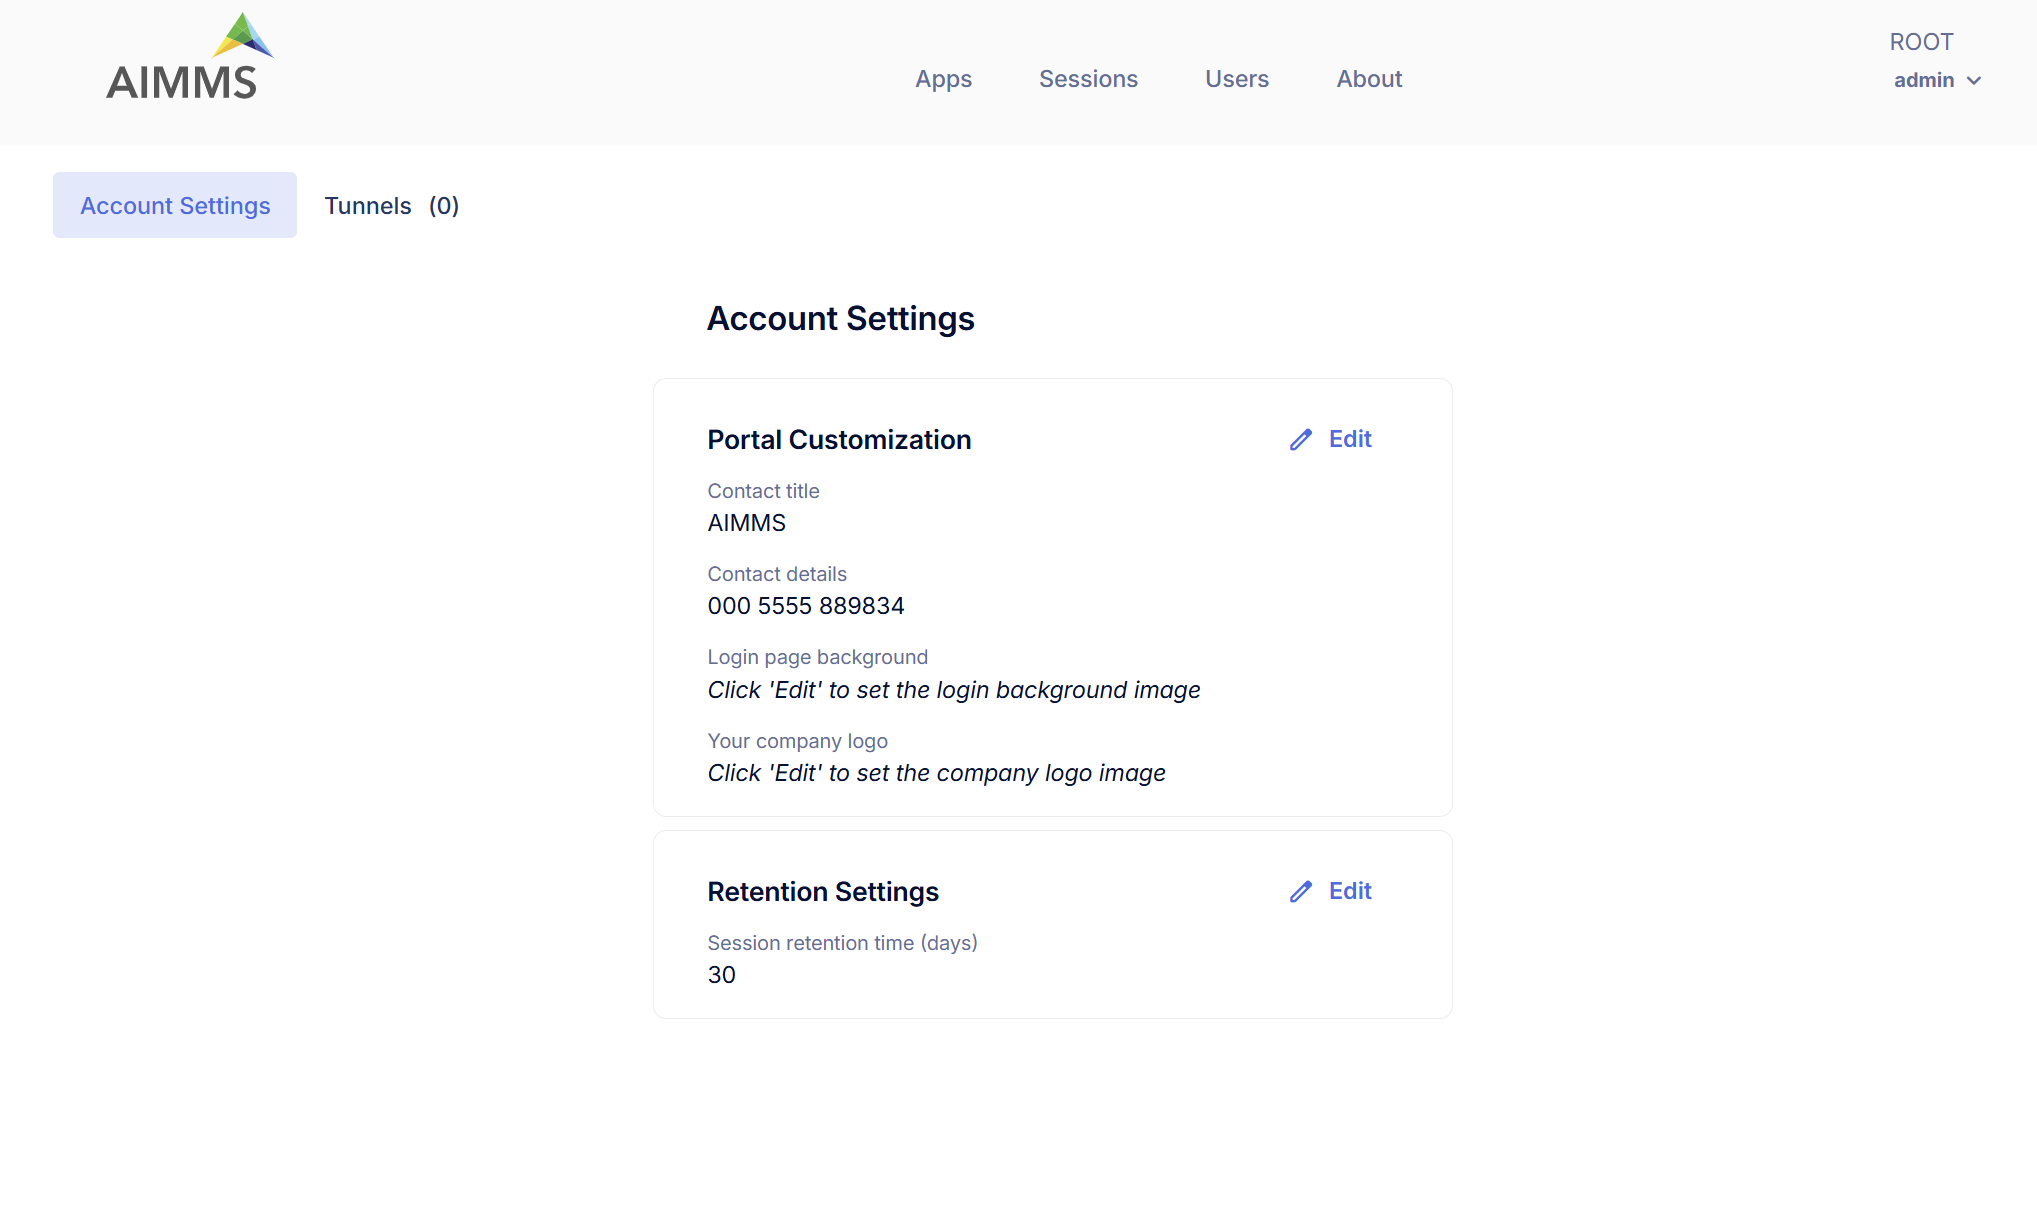
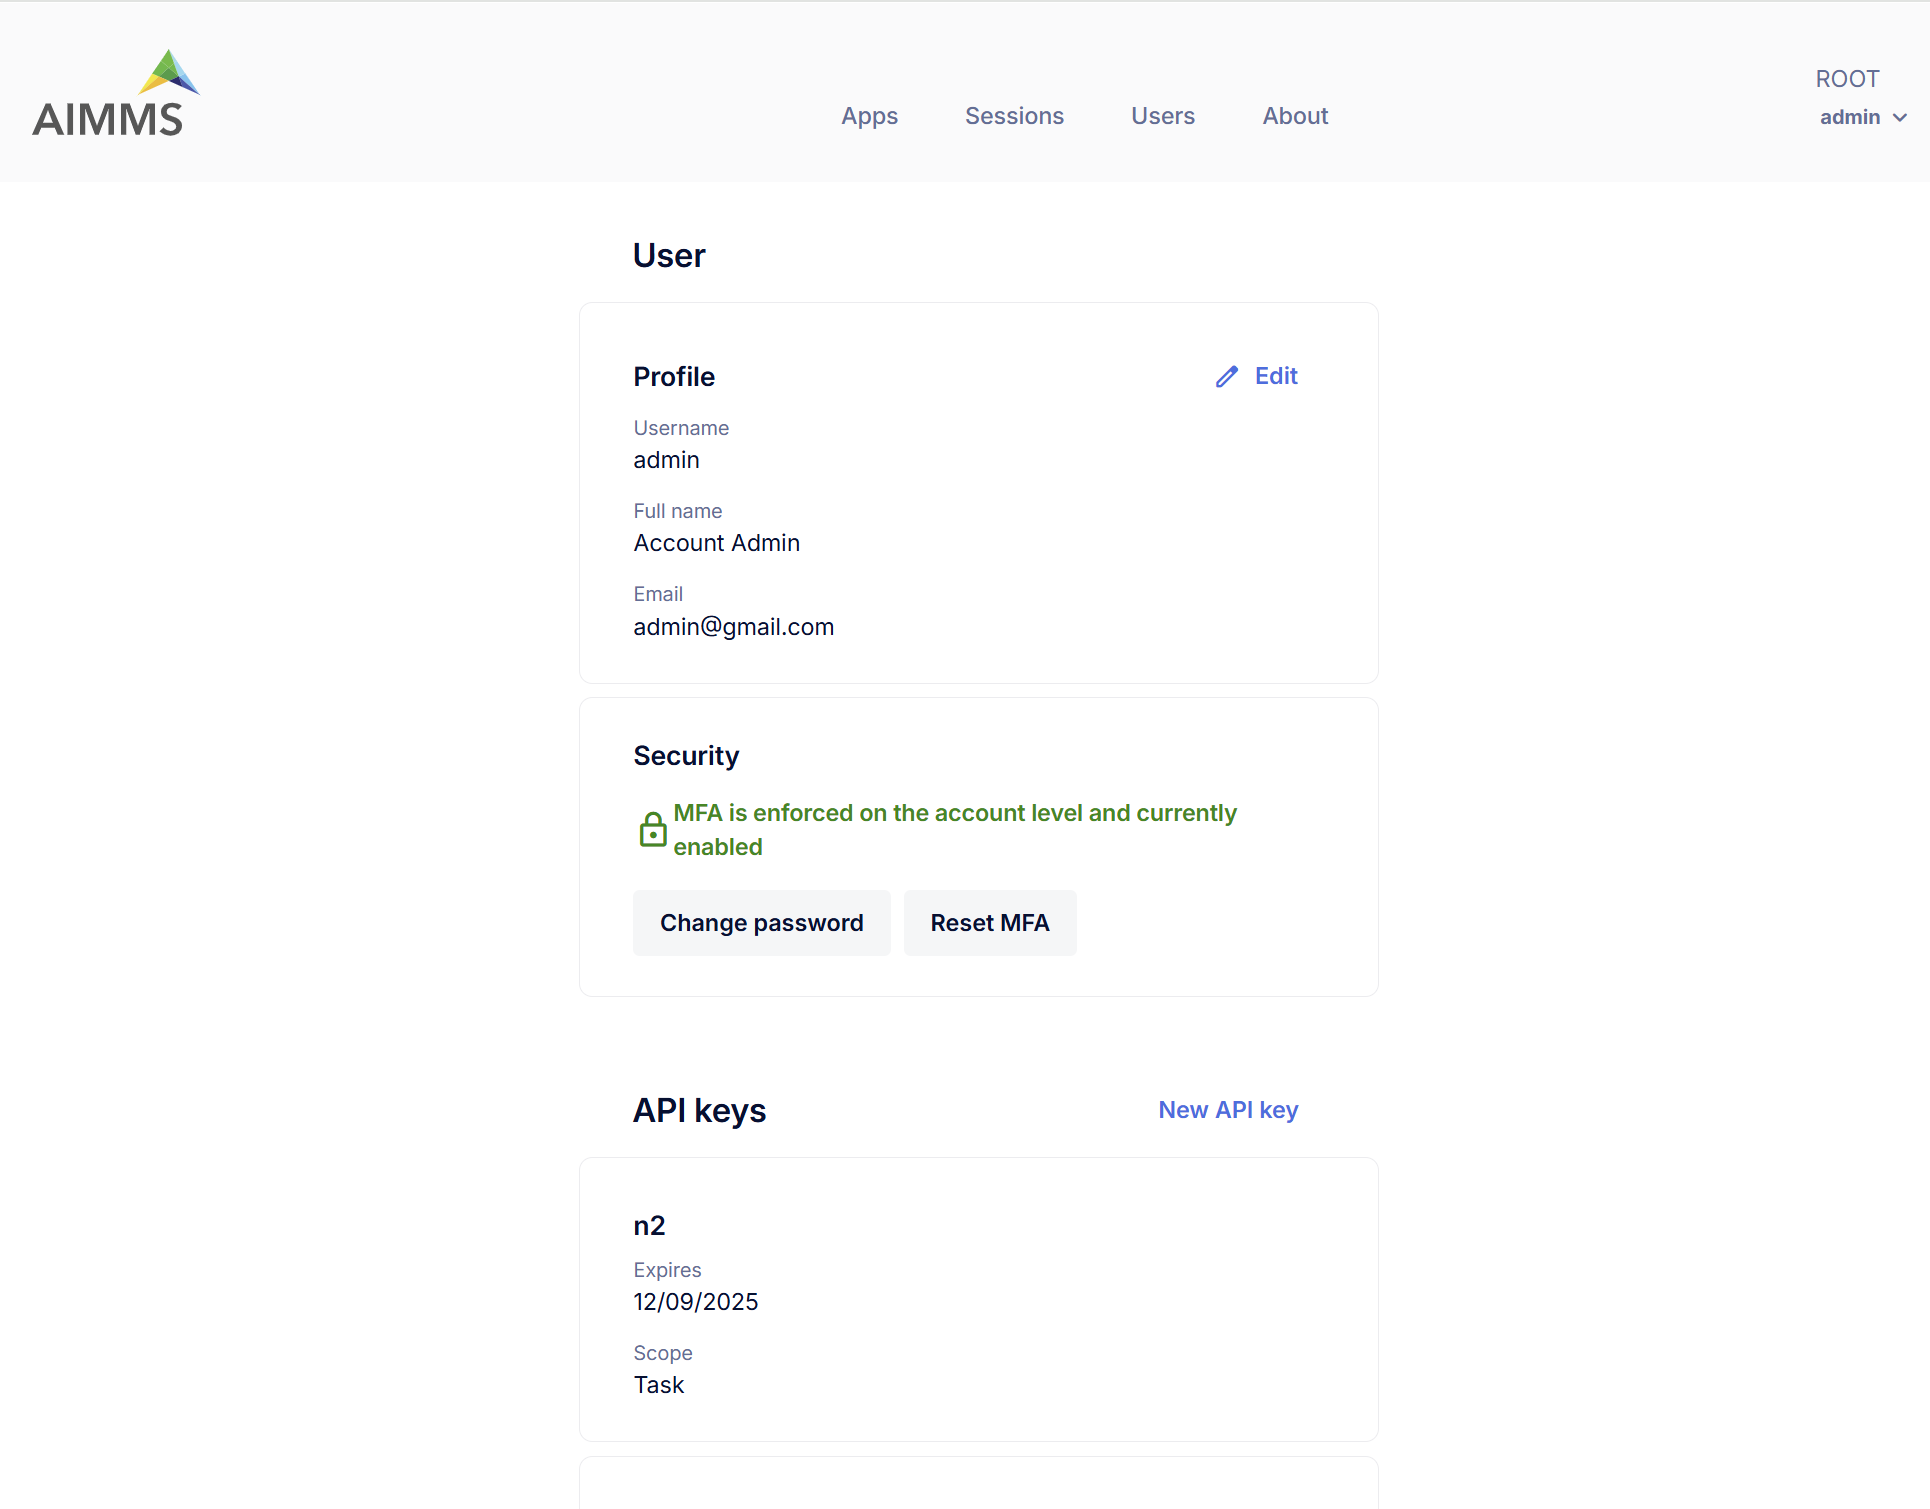
updated images and MFA information as per the enforce MFA feature

diff --git a/cloud/newportal-configuration.rst b/cloud/newportal-configuration.rst
@@ -6,7 +6,7 @@ Configuration lets administrators manage Account level settings and configure tu
 Account Settings
 ----------------
 
-The Account Settings page allows administrators to manage portal appearance and retention settings for sessions.
+The Account Settings page allows administrators to manage portal appearance, retention settings for sessions and MFA enforcement.
 
 .. image:: images/newportal-configuration.png
     :align: center
@@ -27,6 +27,25 @@ Retention Settings
 ^^^^^^^^^^^^^^^^^^
 
 This section allows you to set retention time (in days) after which a sessions (WebUI and Solve sessions) will be removed from the list. Default retention time is 30 days.
+
+Multi-Factor Authentication (MFA)
+^^^^^^^^^^^^^^^^^^^^^^^^^^^^^^^^^
+
+Multi-Factor Authentication (MFA) enhances account security by requiring a second verification factor during sign-in. MFA can be configured either by individual users or enforced at the account level by an administrator for all users within the same AIMMS Cloud account.
+
+**Admin Configuration**
+
+Administrators can manage MFA enforcement through the Account Settings page under the Configuration. Admin can choose one of the following options:
+
+* Optional for everyone – Users can decide individually whether to enable MFA.
+* Required for everyone - MFA is enforced for all users in the cloud account.
+
+When an administrator enforces MFA for a cloud account:
+
+* All users in that account are required to set up MFA upon their next login.
+* The Security section under each user's User Settings will display a message indicating that MFA is required by the administrator.
+* Users cannot disable MFA while enforcement is active. The Disable MFA option will be unavailable.
+* Users can reset their own MFA, if they lose access to their authenticator device.
 
 Tunnels
 -------

diff --git a/cloud/newportal-usersettings.rst b/cloud/newportal-usersettings.rst
@@ -22,9 +22,9 @@ Security
 
 Manage your account’s security settings:
 
-* **MFA (Multi-Factor Authentication)** – Indicates whether MFA is enabled.
+* **MFA (Multi-Factor Authentication)** – Indicates whether MFA is enforced by Admin and enabled/disabled currently.
 * **Change Password** – Click to update your current password.
-* **Enable/Disable MFA** – Click to set up multi-factor authentication for an added layer of security.
+* **Enable/Disable/Reset MFA** – Click to enable or disable MFA when it is configured as optional at account level. If MFA is enforced by Admin, the disable option is unavailable instead Reset MFA option is available.
 
 .. note::
 
